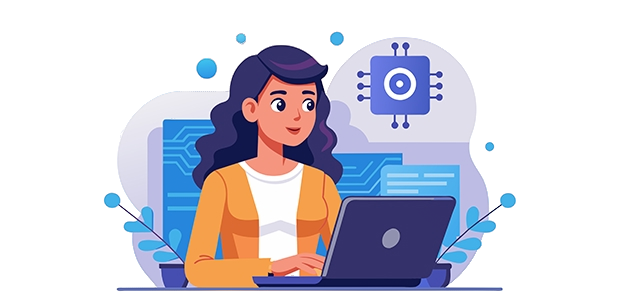
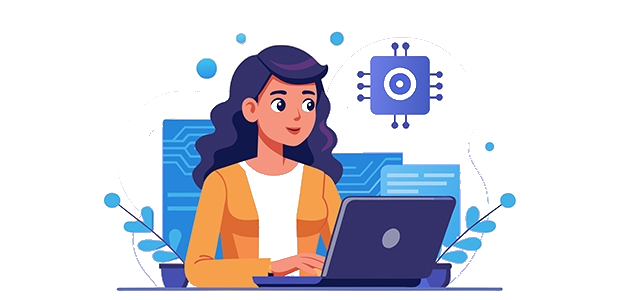
Update hero section styles and improve tech stack layout

diff --git a/src/components/AboutSkills.jsx b/src/components/AboutSkills.jsx
@@ -104,24 +104,24 @@ export function Skills() {
       <div style={{ maxWidth: 1200, margin: '0 auto' }}>
         <p className="section-label">Core Skills</p>
         <h2 className="section-title" style={{ marginBottom: '1.5rem' }}>Tech Stack</h2>
-        <div style={{ display: 'grid', gridTemplateColumns: 'repeat(auto-fit, minmax(190px,1fr))', gap: '1rem' }}>
+        <div style={{ display: 'grid', gridTemplateColumns: 'repeat(auto-fit, minmax(280px,1fr))', gap: '1rem' }}>
           {skillGroups.map(g => (
             <div key={g.label} style={{
               background: 'var(--card)', border: '1px solid var(--border)',
               borderRadius: 12, padding: '1.1rem 1.4rem'
             }}>
-              <div style={{ fontSize: '0.68rem', letterSpacing: '0.1em', textTransform: 'uppercase', color: 'var(--accent)', marginBottom: '0.7rem', fontWeight: 500 }}>{g.label}</div>
+              <div style={{ fontSize: '1rem', letterSpacing: '0.1em', textTransform: 'uppercase', color: 'var(--accent)', marginBottom: '0.7rem', fontWeight: 500 }}>{g.label}</div>
               <div style={{ display: 'flex', flexWrap: 'wrap', gap: '0.35rem' }}>
                 {g.core.map(t => (
                   <span key={t} style={{
-                    fontSize: '0.72rem', padding: '0.22rem 0.55rem',
+                    fontSize: '0.90rem', padding: '0.22rem 0.55rem',
                     background: 'rgba(167,139,250,0.1)', border: '1px solid rgba(167,139,250,0.2)',
                     borderRadius: 4, color: 'var(--accent3)'
                   }}>{t}</span>
                 ))}
                 {g.all.map(t => (
                   <span key={t} style={{
-                    fontSize: '0.72rem', padding: '0.22rem 0.55rem',
+                    fontSize: '0.90rem', padding: '0.22rem 0.55rem',
                     background: 'rgba(255,255,255,0.04)', border: '1px solid var(--border)',
                     borderRadius: 4, color: 'var(--muted)'
                   }}>{t}</span>

diff --git a/src/components/Hero.jsx b/src/components/Hero.jsx
@@ -16,7 +16,7 @@ export default function Hero() {
   return (
     <section id="hero" style={{
       minHeight: '100vh', display: 'flex', alignItems: 'center',
-      padding: '7rem 4rem 4rem', position: 'relative', overflow: 'hidden'
+      padding: '6rem 4rem 4rem', position: 'relative', overflow: 'hidden'
     }}>
       {/* Glows */}
       <div style={{
@@ -62,7 +62,7 @@ export default function Hero() {
         {/* Name */}
         <h1 style={{
           fontFamily: 'Syne, sans-serif',
-          fontSize: 'clamp(3.5rem, 8vw, 6rem)',
+          fontSize: 'clamp(3rem, 6vw, 4rem)',
           fontWeight: 800, lineHeight: 0.95,
           letterSpacing: '-0.03em', marginBottom: '1.4rem'
         }}>
@@ -136,13 +136,13 @@ export default function Hero() {
             src="/hero.png" 
             alt="Hiba Shahid" 
             style={{
-              width: '100%',
-              maxWidth: 500,
+              width: '115%',
+              marginBottom: 100,
+              maxWidth: 650,
               height: 'auto',
               borderRadius: '15px',
               transition: 'transform 0.3s ease',
-              border: '1px solid rgba(255,255,255,0.1)',
-              backgroundColor: 'rgba(255,255,255,0.05)'
+              backgroundColor: 'transparent'
             }}
             onMouseEnter={e => e.target.style.transform = 'scale(1.05)'}
             onMouseLeave={e => e.target.style.transform = 'scale(1)'}
